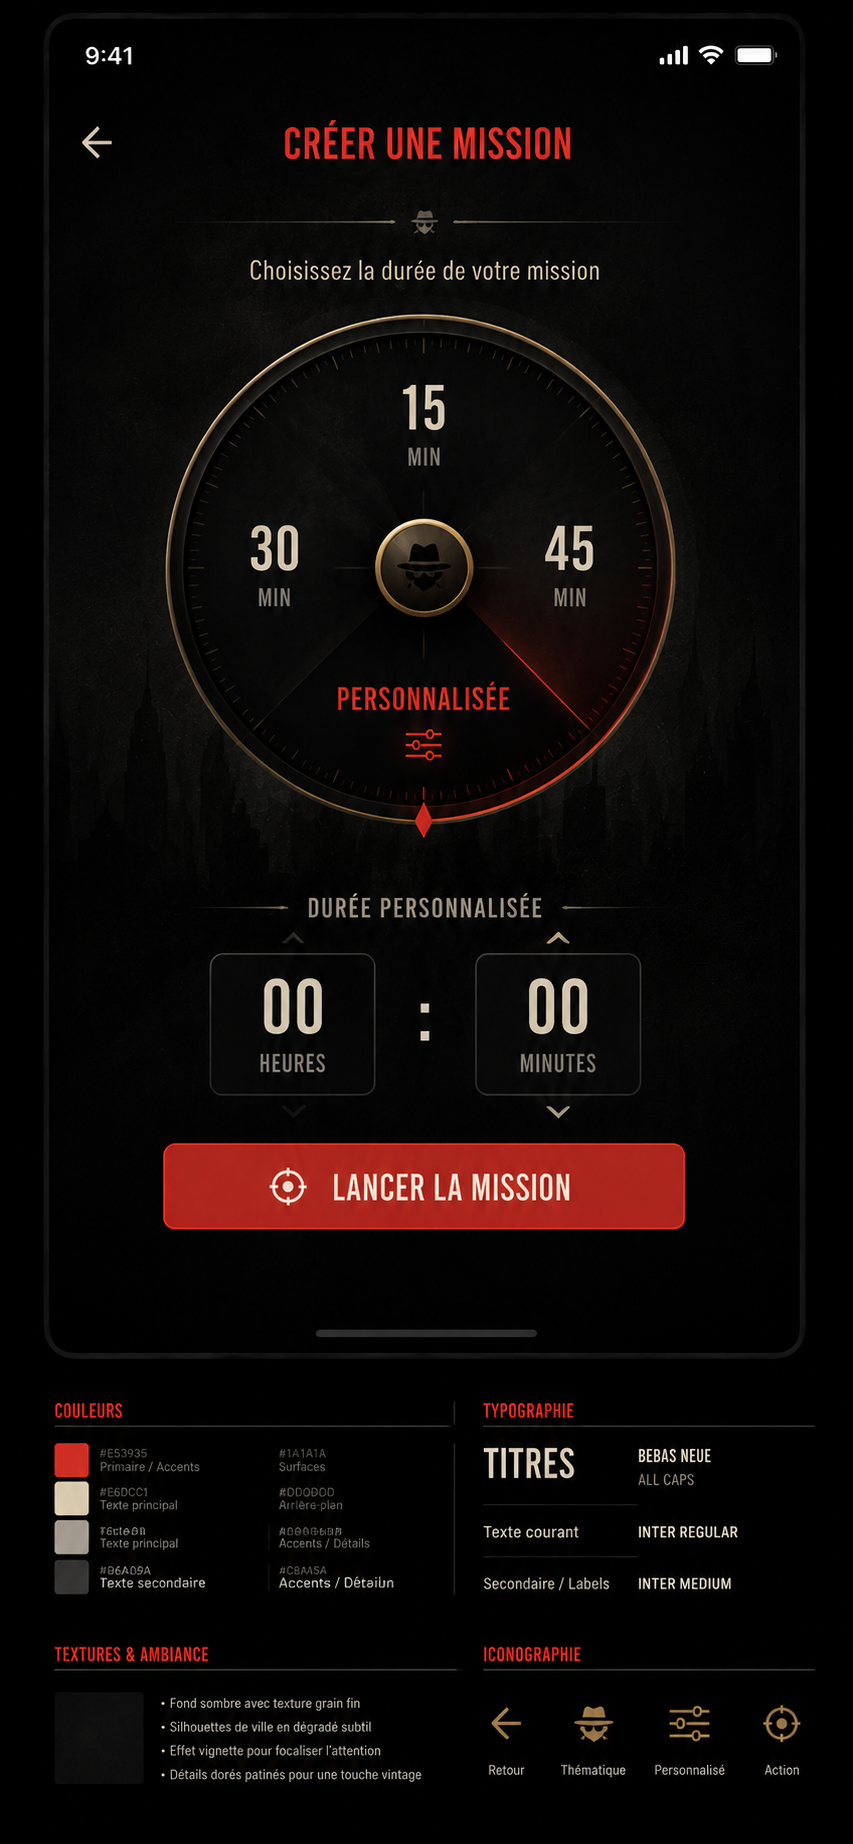
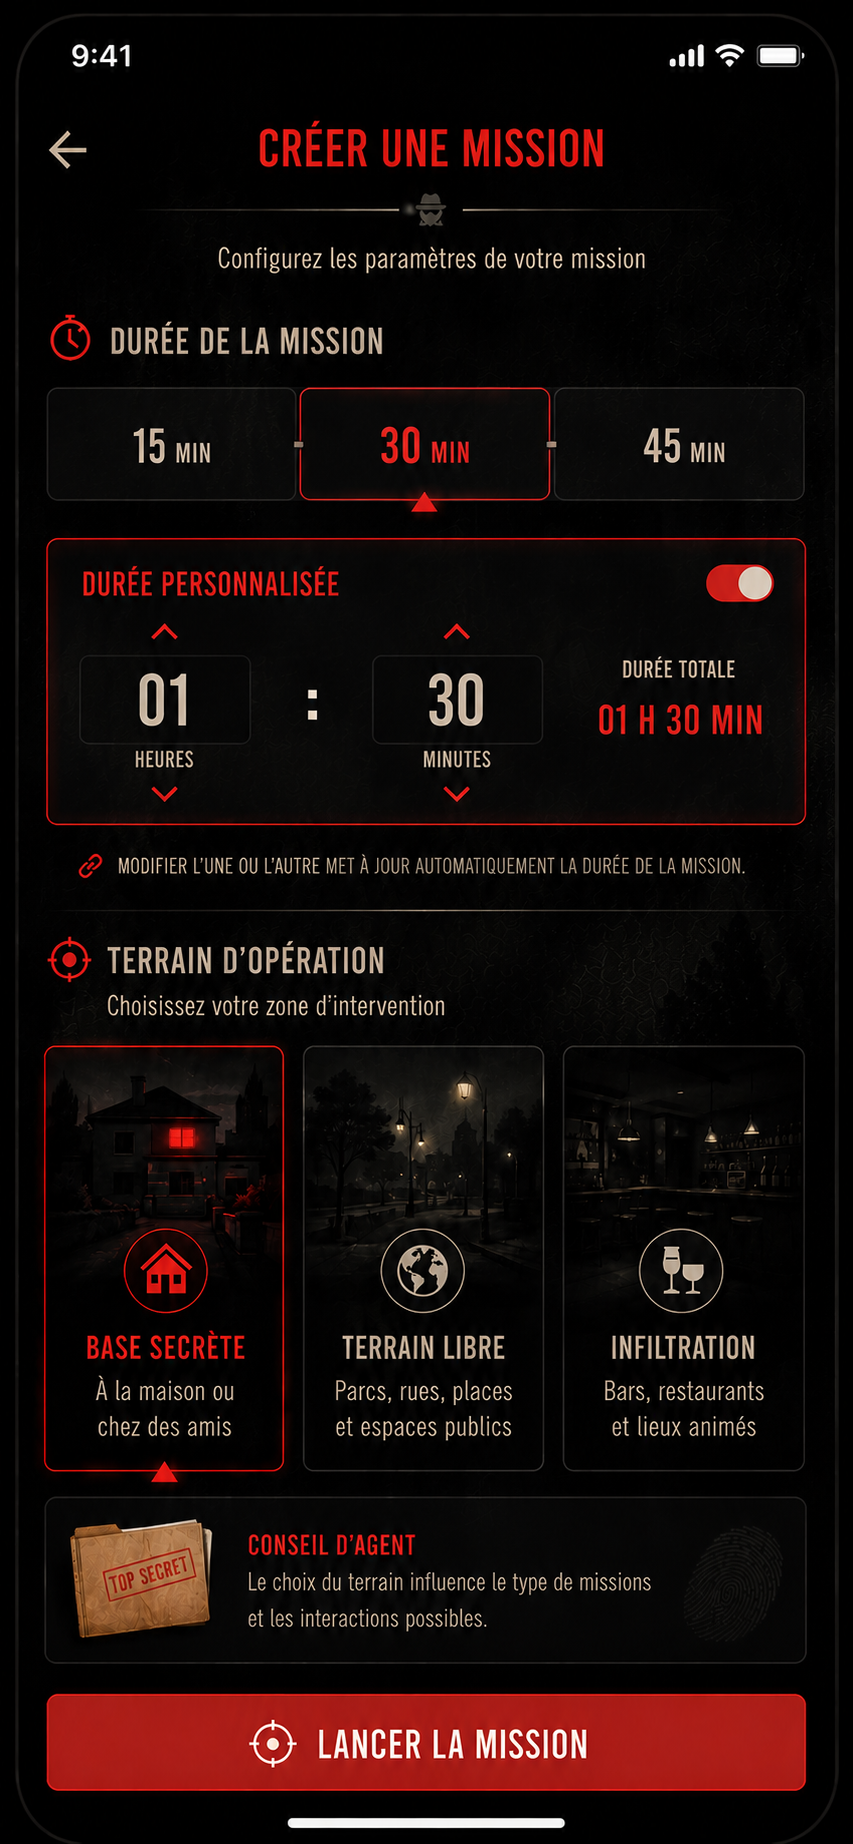
adding darker background create page

diff --git a/app/mission/create.tsx b/app/mission/create.tsx
@@ -1,185 +1,3 @@
-/*
-import React from 'react';
-import { StyleSheet, View, Text } from 'react-native';
-import Animated, { FadeInUp } from 'react-native-reanimated';
-import { useSafeAreaInsets } from 'react-native-safe-area-context';
-import { PageHeader } from '../../components/ui/PageHeader';
-import { DurationSelector } from '../../components/DurationSelector';
-import { Button } from '../../components/ui/Button';
-import { ThemedText } from '../../components/ThemedText';
-import { LinearGradient } from 'expo-linear-gradient';
-import { useTranslation } from '../../hooks/useTranslation';
-import { useCreateMission } from '../../hooks/useCreateMission';
-
-export default function CreateMissionScreen() {
-    const insets = useSafeAreaInsets();
-    const { t } = useTranslation();
-
-    const {
-        duration,
-        setDuration,
-        customDuration,
-        setCustomDuration,
-        isCustomInvalid,
-        handleCreate
-    } = useCreateMission();
-
-    return (
-        <View style={{ flex: 1 }}>
-
-            {/ * Background * /}
-            <LinearGradient
-                colors={[
-                    '#050505',
-                    '#101010',
-                    '#0D0D0D',
-                    '#050505',
-                ]}
-                locations={[0, 0.25, 0.7, 1]}
-                style={StyleSheet.absoluteFill}
-            />
-
-            {/ * Central glow * /}
-            <View style={styles.centerGlow} />
-
-            {/ * Vertical texture * /}
-            <View style={styles.textureOverlay} />
-
-            <View style={[styles.container, { paddingTop: insets.top }]}>
-                <PageHeader
-                    title={t('mission.create_title')}
-                />
-
-                <View style={styles.subtitleContainer}>
-                    <Text style={styles.subtitleText}>
-                        Configurez votre mission
-                    </Text>
-                    <View style={styles.separator} />
-                </View>
-
-                <View style={styles.tabletCenteredContainer}>
-                    <View
-                        style={[
-                            styles.content,
-                            { paddingBottom: 20 + insets.bottom }
-                        ]}
-                    >
-                        <Animated.View
-                            style={styles.formContainer}
-                            entering={FadeInUp.delay(300).duration(600)}
-                        >
-                            <DurationSelector
-                                duration={duration}
-                                setDuration={setDuration}
-                                customDuration={customDuration}
-                                setCustomDuration={setCustomDuration}
-                                isCustomInvalid={isCustomInvalid}
-                            />
-                        </Animated.View>
-
-                        <Animated.View
-                            entering={FadeInUp.delay(500).duration(600)}
-                            style={styles.footer}
-                        >
-                            <Button
-                                title={t('mission.btn_init')}
-                                onPress={handleCreate}
-                                disabled={isCustomInvalid}
-                                style={styles.createButton}
-                                variant="primary"
-                            />
-                        </Animated.View>
-                    </View>
-                </View>
-            </View>
-
-        </View>
-    );
-}
-
-const styles = StyleSheet.create({
-    container: {
-        flex: 1,
-        backgroundColor: 'transparent',
-    },
-
-    centerGlow: {
-        position: 'absolute',
-        top: '20%',
-        left: '-15%',
-        right: '-15%',
-        height: 500,
-
-        backgroundColor: 'rgba(255,255,255,0.025)',
-
-        borderRadius: 500,
-
-        transform: [{ scaleX: 1.6 }],
-    },
-
-    textureOverlay: {
-        ...StyleSheet.absoluteFillObject,
-
-        borderLeftWidth: 1,
-        borderRightWidth: 1,
-
-        borderLeftColor: 'rgba(255,255,255,0.015)',
-        borderRightColor: 'rgba(255,255,255,0.015)',
-    },
-    subtitleContainer: {
-        alignItems: 'center',
-        marginTop: 20,
-        width: '100%',
-    },
-    subtitleText: {
-        fontFamily: 'BebasNeue-Bold',
-        fontSize: 20,
-        color: '#F2E8CF',
-        opacity: 0.8,
-        textAlign: 'center',
-        marginBottom: 15,
-        letterSpacing: 1,
-    },
-    separator: {
-        height: 1.5,
-        backgroundColor: 'rgba(242, 232, 207, 0.12)',
-        width: '100%',
-    },
-    tabletCenteredContainer: {
-        flex: 1,
-        alignItems: 'center',
-        justifyContent: 'center',
-    },
-    content: {
-        width: '100%',
-        maxWidth: 1100,
-        flex: 1,
-        paddingHorizontal: 25,
-        justifyContent: 'space-between',
-        marginTop: 20,
-    },
-    formContainer: {
-        gap: 30,
-        marginTop: 20,
-    },
-    footer: {
-        gap: 15,
-    },
-    summaryBox: {
-        alignItems: 'center',
-    },
-    summaryText: {
-        fontFamily: 'BebasNeue-Bold',
-        fontSize: 18,
-        color: 'rgba(242, 232, 207, 0.6)',
-        letterSpacing: 1,
-    },
-    createButton: {
-        width: '100%',
-    },
-});
-*/
-
 import React from 'react';
 import { StyleSheet, View, Text } from 'react-native';
 import { useSafeAreaInsets } from 'react-native-safe-area-context';
@@ -199,7 +17,7 @@ export default function CreateMissionScreen() {
 
     return (
         <View style={styles.container}>
-            <AgentHomeBackground />
+            <AgentHomeBackground totalBlack />
             
             <View style={{ paddingTop: insets.top }}>
                 <PageHeader title="créer une mission" />

diff --git a/components/AgentHomeBackground.tsx b/components/AgentHomeBackground.tsx
@@ -7,9 +7,15 @@ import { Theme } from '../constants/Theme';
 
 
 
-export function AgentHomeBackground() {
+export interface AgentHomeBackgroundProps {
+  totalBlack?: boolean;
+}
+
+export function AgentHomeBackground({ totalBlack = false }: AgentHomeBackgroundProps) {
+  const bgColor = totalBlack ? Theme.colors.totalBlack : Theme.colors.background;
+
   return (
-    <Animated.View entering={FadeIn.duration(1500)} style={styles.backgroundContainer}>
+    <Animated.View entering={FadeIn.duration(1500)} style={[styles.backgroundContainer, { backgroundColor: bgColor }]}>
       {/* Background Image: City silhouettes (highly visible in the center) */}
       <Image
         source={require('../assets/UI/texture_city.png')}
@@ -19,14 +25,14 @@ export function AgentHomeBackground() {
       
       {/* Vertical Vignette: Stronger dark overlay at top/bottom, clear center */}
       <LinearGradient
-        colors={[Theme.colors.background, 'transparent', 'transparent', Theme.colors.background]}
+        colors={[bgColor, 'transparent', 'transparent', bgColor]}
         locations={[0, 0.25, 0.75, 1]}
         style={StyleSheet.absoluteFill}
       />
 
       {/* Horizontal Vignette: Stronger dark overlay at left/right edges, clear center */}
       <LinearGradient
-        colors={[Theme.colors.background, 'transparent', 'transparent', Theme.colors.background]}
+        colors={[bgColor, 'transparent', 'transparent', bgColor]}
         start={{ x: 0, y: 0.5 }}
         end={{ x: 1, y: 0.5 }}
         locations={[0, 0.15, 0.85, 1]}
@@ -39,7 +45,6 @@ export function AgentHomeBackground() {
 const styles = StyleSheet.create({
   backgroundContainer: {
     ...StyleSheet.absoluteFillObject,
-    backgroundColor: Theme.colors.background,
   },
   backgroundImage: {
     width: '100%',

diff --git a/constants/Theme.ts b/constants/Theme.ts
@@ -1,6 +1,7 @@
 export const Theme = {
   colors: {
     background: '#0D0D0D',       // Fond principal noir
+    totalBlack: '#000000',       // Noir total
     surface: '#121212',          // Fond de carte / panel sombre
     border: '#2A2A2A',           // Bordure grise fine
     